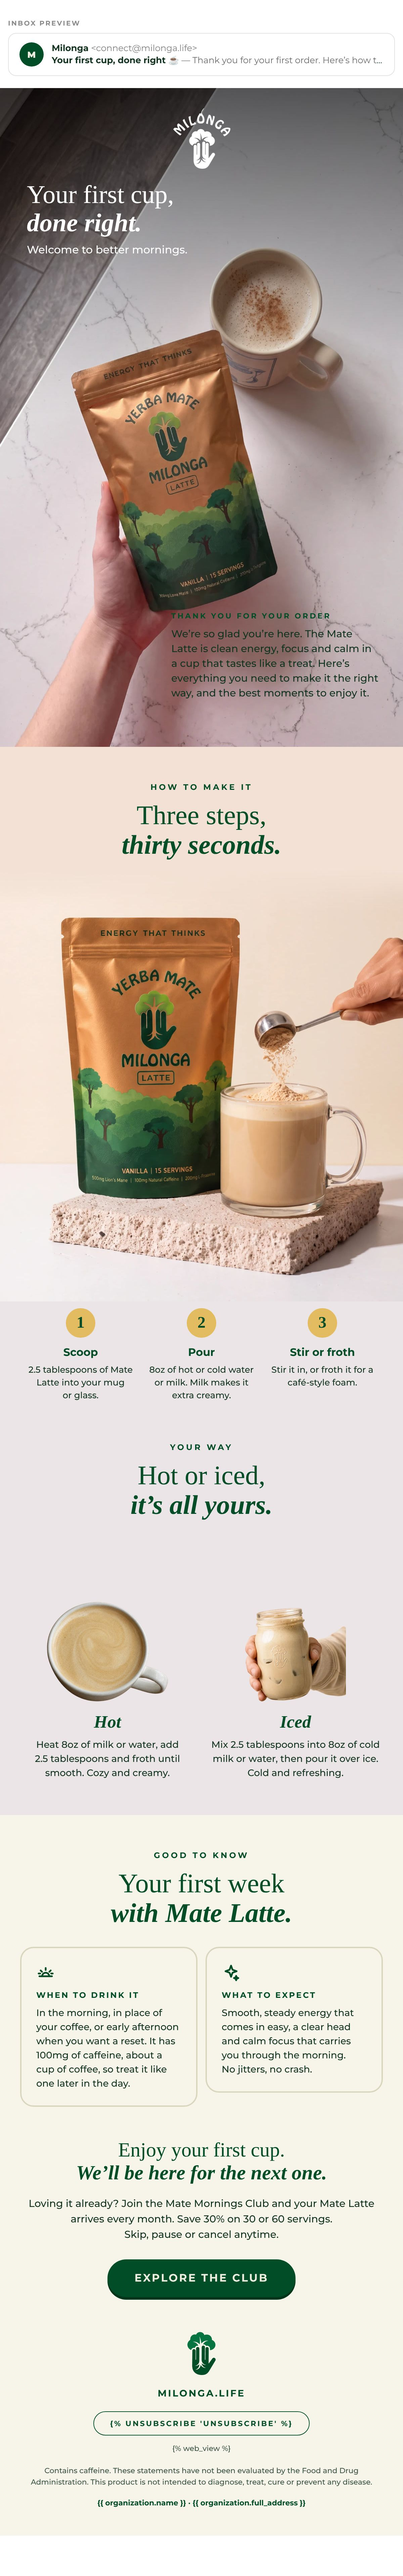
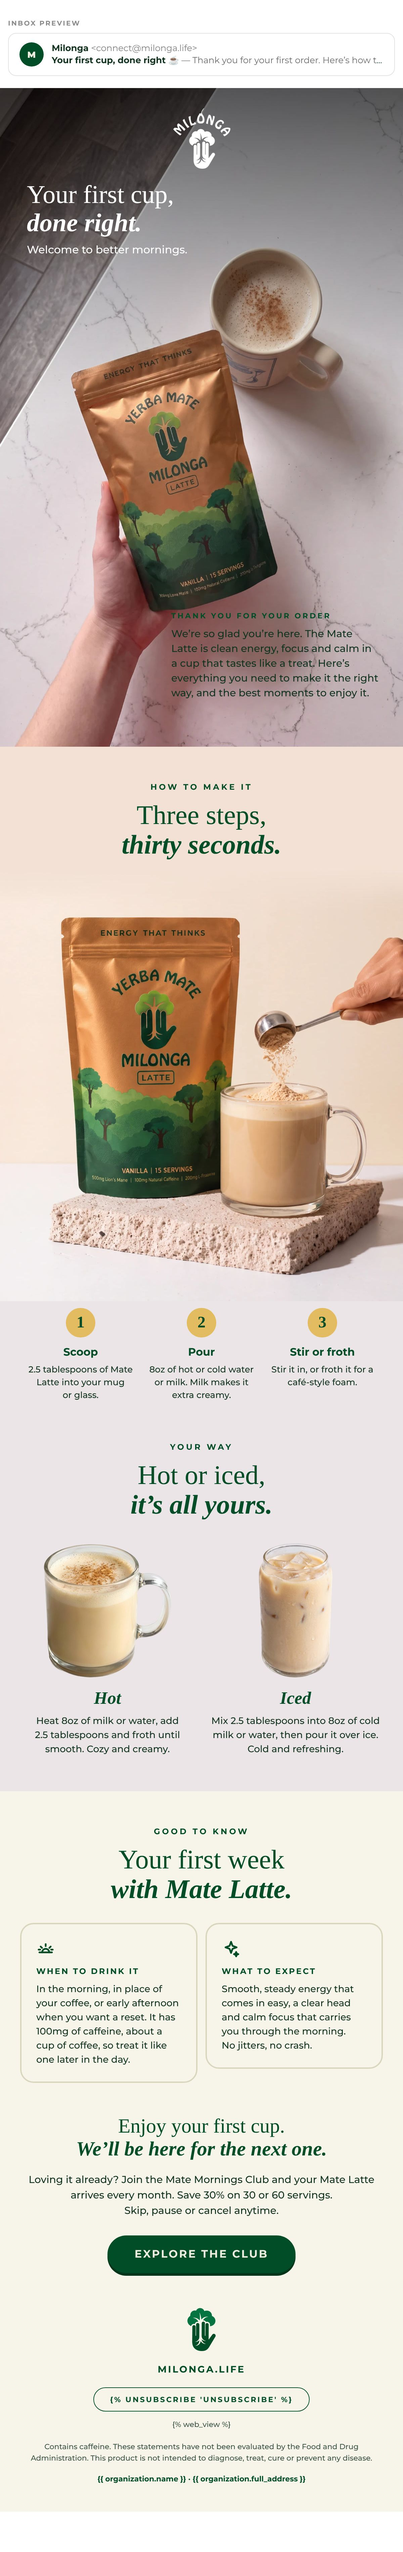
Post-purchase E1: hosted how-to background and drink cutouts; paste-ready HTML
Claude-Session: https://claude.ai/code/session_01NhEtXPnfeCJfN73SqBkUZ5

diff --git a/email-ds/exports/klaviyo/pp1-e1/pp1-e1.html b/email-ds/exports/klaviyo/pp1-e1/pp1-e1.html
@@ -27,23 +27,26 @@
     .hero-top { padding:18px 24px 0 !important; }
     .hero-logo { width:57px !important; height:60px !important; }
     .hero-title { font-size:28px !important; line-height:31px !important; }
-    .hero-gap { height:368px !important; line-height:368px !important; }
-    .hero-lead { width:160px !important; }
+    .hero-welcome { padding-top:4px !important; font-size:12px !important; line-height:16px !important; }
+    .hero-gap { height:330px !important; line-height:330px !important; }
+    .hero-lead { width:150px !important; }
     .hero-text { padding-right:16px !important; }
     .hero-eyebrow { font-size:9px !important; line-height:12px !important; letter-spacing:1.5px !important; }
-    .hero-intro { padding-top:4px !important; font-size:12px !important; line-height:16px !important; }
+    .hero-intro { padding-top:4px !important; font-size:11.5px !important; line-height:15px !important; }
     .h-sec { font-size:32px !important; line-height:36px !important; }
     .step { padding:0 4px !important; }
     .step-t { font-size:14px !important; }
     .step-d { font-size:12px !important; line-height:17px !important; }
-    .hi { display:block !important; width:100% !important; padding:0 0 12px 0 !important; }
+    .drink-img { width:150px !important; height:154px !important; }
+    .drink-text { font-size:12.5px !important; line-height:18px !important; }
     .know { display:block !important; width:100% !important; padding:0 0 12px 0 !important; }
     .btn { padding:18px 26px !important; font-size:15px !important; letter-spacing:1.2px !important; }
   }
   @media (prefers-color-scheme: dark) {
     .bg-white { background-color:#FFFFFF !important; }
     .bg-page { background-color:#F0EFDF !important; }
-    .bg-forest { background-color:#004D27 !important; }
+    .bg-table { background-color:#EBE5E7 !important; }
+    .bg-wall { background-color:#F2E1D4 !important; }
     .bg-cream { background-color:#F7F4EA !important; }
   }
 </style>
@@ -53,34 +56,36 @@
 <tr><td align="center">
 <table role="presentation" class="wrap" width="600" cellpadding="0" cellspacing="0" border="0" style="width:600px;max-width:600px;table-layout:fixed;">
 
-<!-- ── 1 · THANK YOU (Bernat's photo is the section's background: the white logo
-     centered at the top, the white title left-aligned on the darkened top, the
-     intro on the marble under the bag, right of the hand) ── -->
+<!-- ── 1 · YOUR FIRST CUP, DONE RIGHT (Bernat's photo is the section's background:
+     the white logo centered at the top, the white title left-aligned on the
+     darkened top, the thank-you and the brand promise on the marble under the bag) ── -->
 <tr><td class="hero" align="left" valign="top" height="980" background="https://cdn.klaviyomail.com/company/TwvSnK/images/33d7e05b-3c92-41b3-be44-9b438603229f.jpeg" bgcolor="#B8A6A6" style="height:980px;background-color:#B8A6A6;background-image:url('https://cdn.klaviyomail.com/company/TwvSnK/images/33d7e05b-3c92-41b3-be44-9b438603229f.jpeg');background-size:cover;background-position:center top;background-repeat:no-repeat;padding:0;">
 <!--[if gte mso 9]><v:rect xmlns:v="urn:schemas-microsoft-com:vml" fill="true" stroke="false" style="width:600px;height:980px;"><v:fill type="frame" src="https://cdn.klaviyomail.com/company/TwvSnK/images/33d7e05b-3c92-41b3-be44-9b438603229f.jpeg" color="#B8A6A6" /><v:textbox inset="0,0,0,0"><![endif]-->
 <div class="hero-top" style="padding:30px 40px 0;font-family:'Montserrat','Helvetica Neue',Helvetica,Arial,sans-serif;">
 <a href="https://milonga.life/?utm_source=klaviyo&amp;utm_medium=email&amp;utm_campaign=post_purchase_mate_latte&amp;utm_content=pp1_logo" target="_blank" style="display:block;text-align:center;"><img class="hero-logo" src="https://cdn.klaviyomail.com/company/TwvSnK/images/49619f06-6898-4fee-a4f2-8e0b6387ea5b.png" width="85" height="90" alt="Milonga" style="display:block;margin:0 auto;width:85px;height:90px;border:0;"></a>
-<div class="hero-title" style="padding-top:18px;font-family:'Times New Roman',Times,Georgia,serif;font-size:38px;line-height:42px;font-weight:400;color:#FFFFFF;">Thank you for</div>
-<div class="hero-title" style="font-family:'Times New Roman',Times,Georgia,serif;font-size:38px;line-height:42px;font-weight:700;font-style:italic;color:#FFFFFF;">your first order.</div>
+<div class="hero-title" style="padding-top:18px;font-family:'Times New Roman',Times,Georgia,serif;font-size:38px;line-height:42px;font-weight:400;color:#FFFFFF;">Your first cup,</div>
+<div class="hero-title" style="font-family:'Times New Roman',Times,Georgia,serif;font-size:38px;line-height:42px;font-weight:700;font-style:italic;color:#FFFFFF;">done right.</div>
+<div class="hero-welcome" style="padding-top:8px;font-size:16px;line-height:22px;font-weight:500;color:#FFFFFF;">Welcome to better mornings.</div>
 </div>
-<div class="hero-gap" style="height:576px;line-height:576px;font-size:0;">&nbsp;</div>
+<div class="hero-gap" style="height:526px;line-height:526px;font-size:0;">&nbsp;</div>
 <table role="presentation" width="100%" cellpadding="0" cellspacing="0" border="0" style="table-layout:fixed;"><tr>
 <td class="hero-lead" width="255" style="width:255px;font-size:0;line-height:0;">&nbsp;</td>
 <td class="hero-text" valign="top" style="padding:0 36px 0 0;font-family:'Montserrat','Helvetica Neue',Helvetica,Arial,sans-serif;text-align:left;">
-<div class="hero-eyebrow" style="font-size:11px;line-height:15px;font-weight:700;letter-spacing:2.5px;text-transform:uppercase;color:#004D27;">Your Mate Latte is on its way</div>
-<div class="hero-intro" style="padding-top:8px;font-size:15px;line-height:22px;font-weight:500;color:#12331F;">We&rsquo;re so glad you&rsquo;re here. While your first bag makes its way to you, here&rsquo;s how to make your first cup taste just right, <span style="white-space:nowrap;">hot or iced.</span></div>
+<div class="hero-eyebrow" style="font-size:11px;line-height:15px;font-weight:700;letter-spacing:2.5px;text-transform:uppercase;color:#004D27;">Thank you for your order</div>
+<div class="hero-intro" style="padding-top:8px;font-size:15px;line-height:22px;font-weight:500;color:#12331F;">We&rsquo;re so glad you&rsquo;re here. The Mate Latte is clean energy, focus and calm in a cup that tastes like a treat. Here&rsquo;s everything you need to make it the right way, and the best moments <span style="white-space:nowrap;">to enjoy it.</span></div>
 </td></tr></table>
 <!--[if gte mso 9]></v:textbox></v:rect><![endif]-->
 </td></tr>
 
-<!-- ── 2 · HOW TO MAKE IT: THREE STEPS ─────────────────────────────── -->
-<tr><td class="pad bg-page" align="center" bgcolor="#F0EFDF" style="background-color:#F0EFDF;padding:52px 40px 0;font-family:'Montserrat','Helvetica Neue',Helvetica,Arial,sans-serif;">
+<!-- ── 2 · HOW TO MAKE IT (Bernat's scoop photo is the whole section: the title
+     sits on its cream wall colour, the steps on its white table colour) ── -->
+<tr><td class="pad bg-wall" align="center" bgcolor="#F2E1D4" style="background-color:#F2E1D4;padding:52px 40px 6px;font-family:'Montserrat','Helvetica Neue',Helvetica,Arial,sans-serif;">
 <div style="font-size:12px;line-height:16px;font-weight:700;letter-spacing:3px;text-transform:uppercase;color:#004D27;">How to make it</div>
 <div class="h-sec" style="padding-top:12px;font-family:'Times New Roman',Times,Georgia,serif;font-size:40px;line-height:44px;font-weight:400;color:#004D27;">Three steps,</div>
 <div class="h-sec" style="font-family:'Times New Roman',Times,Georgia,serif;font-size:40px;line-height:44px;font-weight:700;font-style:italic;color:#004D27;">thirty seconds.</div>
 </td></tr>
-<tr><td class="pad-photo bg-page" align="center" bgcolor="#F0EFDF" style="background-color:#F0EFDF;padding:26px 40px 0;font-size:0;line-height:0;"><img class="full" src="https://cdn.klaviyomail.com/company/TwvSnK/images/768ff78d-b0bb-42c1-8a0f-b68ab1163c4d.jpeg" width="520" height="488" alt="A scoop of Mate Latte powder going into a glass mug beside the pouch" style="display:block;margin:0 auto;width:520px;height:488px;border:0;border-radius:22px;"></td></tr>
-<tr><td class="pad-photo bg-page" bgcolor="#F0EFDF" style="background-color:#F0EFDF;padding:26px 30px 52px;">
+<tr><td class="bg-wall" bgcolor="#F2E1D4" style="background-color:#F2E1D4;padding:0;font-size:0;line-height:0;"><img class="full" src="https://cdn.klaviyomail.com/company/TwvSnK/images/af3f6223-416f-4287-9846-efb8ba0a5c3b.jpeg" width="600" height="651" alt="A scoop of Mate Latte powder going into a glass mug beside the pouch" style="display:block;width:600px;height:651px;border:0;"></td></tr>
+<tr><td class="pad-photo bg-table" bgcolor="#EBE5E7" style="background-color:#EBE5E7;padding:10px 30px 20px;">
 <table role="presentation" width="100%" cellpadding="0" cellspacing="0" border="0" style="table-layout:fixed;"><tr>
 <td class="step" width="33%" align="center" valign="top" style="width:33%;padding:0 8px;font-family:'Montserrat','Helvetica Neue',Helvetica,Arial,sans-serif;">
 <table role="presentation" cellpadding="0" cellspacing="0" border="0" align="center" style="margin:0 auto;border-collapse:separate;"><tr><td align="center" valign="middle" width="44" height="44" bgcolor="#E3BC62" style="width:44px;height:44px;border-radius:22px;background-color:#E3BC62;font-family:'Times New Roman',Times,Georgia,serif;font-size:24px;line-height:44px;font-weight:700;color:#004D27;">1</td></tr></table>
@@ -100,27 +105,23 @@
 </tr></table>
 </td></tr>
 
-<!-- ── 3 · HOT OR ICED ─────────────────────────────────────────────── -->
-<tr><td class="pad bg-forest" align="center" bgcolor="#004D27" style="background-color:#004D27;padding:52px 40px 0;font-family:'Montserrat','Helvetica Neue',Helvetica,Arial,sans-serif;">
-<div style="font-size:12px;line-height:16px;font-weight:700;letter-spacing:3px;text-transform:uppercase;color:#E3BC62;">Your way</div>
-<div class="h-sec" style="padding-top:12px;font-family:'Times New Roman',Times,Georgia,serif;font-size:40px;line-height:44px;font-weight:400;color:#FFFFFF;">Hot or iced,</div>
-<div class="h-sec" style="font-family:'Times New Roman',Times,Georgia,serif;font-size:40px;line-height:44px;font-weight:700;font-style:italic;color:#FFFFFF;">it&rsquo;s all yours.</div>
+<!-- ── 3 · HOT OR ICED (on the light table colour of the scoop photo above) ── -->
+<tr><td class="pad bg-table" align="center" bgcolor="#EBE5E7" style="background-color:#EBE5E7;padding:40px 40px 0;font-family:'Montserrat','Helvetica Neue',Helvetica,Arial,sans-serif;">
+<div style="font-size:12px;line-height:16px;font-weight:700;letter-spacing:3px;text-transform:uppercase;color:#004D27;">Your way</div>
+<div class="h-sec" style="padding-top:12px;font-family:'Times New Roman',Times,Georgia,serif;font-size:40px;line-height:44px;font-weight:400;color:#004D27;">Hot or iced,</div>
+<div class="h-sec" style="font-family:'Times New Roman',Times,Georgia,serif;font-size:40px;line-height:44px;font-weight:700;font-style:italic;color:#004D27;">it&rsquo;s all yours.</div>
 </td></tr>
-<tr><td class="pad-photo bg-forest" bgcolor="#004D27" style="background-color:#004D27;padding:28px 30px 52px;">
-<table role="presentation" width="100%" cellpadding="0" cellspacing="0" border="0" style="border-collapse:separate;"><tr>
-<td class="hi" width="50%" valign="top" style="width:50%;padding:0 6px 0 0;">
-<table role="presentation" width="100%" cellpadding="0" cellspacing="0" border="0" bgcolor="#FFFFFF" style="border-collapse:separate;background-color:#FFFFFF;border-radius:20px;"><tr><td align="center" style="padding:20px 18px 22px;font-family:'Montserrat','Helvetica Neue',Helvetica,Arial,sans-serif;">
-<img src="https://cdn.klaviyomail.com/company/TwvSnK/images/3c959d21-9210-4492-a17f-f8cd43989ed3.png" width="150" height="150" alt="A hot Mate Latte from above" style="display:block;margin:0 auto;width:150px;height:150px;border:0;border-radius:0px;">
-<div style="padding-top:14px;font-family:'Times New Roman',Times,Georgia,serif;font-size:24px;line-height:28px;font-weight:700;font-style:italic;color:#004D27;">Hot</div>
-<div style="padding-top:8px;font-size:14px;line-height:21px;font-weight:500;color:#12331F;">Heat <span style="white-space:nowrap;">8oz of milk</span> or water, add <span style="white-space:nowrap;">2.5 tablespoons</span> and froth until smooth. Cozy and creamy.</div>
-</td></tr></table>
+<tr><td class="pad-photo bg-table" bgcolor="#EBE5E7" style="background-color:#EBE5E7;padding:30px 30px 52px;">
+<table role="presentation" width="100%" cellpadding="0" cellspacing="0" border="0" style="table-layout:fixed;"><tr>
+<td class="drink" width="50%" align="center" valign="top" style="width:50%;padding:0 10px 0 0;font-family:'Montserrat','Helvetica Neue',Helvetica,Arial,sans-serif;">
+<img class="drink-img" src="https://cdn.klaviyomail.com/company/TwvSnK/images/eb720e35-e441-496a-a96c-5f30dc637591.png" width="200" height="205" alt="A hot Mate Latte in a glass mug" style="display:block;margin:0 auto;width:200px;height:205px;border:0;">
+<div style="padding-top:16px;font-family:'Times New Roman',Times,Georgia,serif;font-size:26px;line-height:30px;font-weight:700;font-style:italic;color:#004D27;">Hot</div>
+<div class="drink-text" style="padding-top:8px;font-size:14px;line-height:21px;font-weight:500;color:#12331F;">Heat <span style="white-space:nowrap;">8oz of milk</span> or water, add <span style="white-space:nowrap;">2.5 tablespoons</span> and froth until smooth. Cozy and creamy.</div>
 </td>
-<td class="hi" width="50%" valign="top" style="width:50%;padding:0 0 0 6px;">
-<table role="presentation" width="100%" cellpadding="0" cellspacing="0" border="0" bgcolor="#FFFFFF" style="border-collapse:separate;background-color:#FFFFFF;border-radius:20px;"><tr><td align="center" style="padding:20px 18px 22px;font-family:'Montserrat','Helvetica Neue',Helvetica,Arial,sans-serif;">
-<img src="https://cdn.klaviyomail.com/company/TwvSnK/images/75b84579-778d-4da9-ae00-081ba3099c64.jpeg" width="150" height="150" alt="An iced Mate Latte in a glass jar" style="display:block;margin:0 auto;width:150px;height:150px;border:0;border-radius:14px;">
-<div style="padding-top:14px;font-family:'Times New Roman',Times,Georgia,serif;font-size:24px;line-height:28px;font-weight:700;font-style:italic;color:#004D27;">Iced</div>
-<div style="padding-top:8px;font-size:14px;line-height:21px;font-weight:500;color:#12331F;">Mix <span style="white-space:nowrap;">2.5 tablespoons</span> into <span style="white-space:nowrap;">8oz of cold</span> milk or water, then pour it over ice. Cold and refreshing.</div>
-</td></tr></table>
+<td class="drink" width="50%" align="center" valign="top" style="width:50%;padding:0 0 0 10px;font-family:'Montserrat','Helvetica Neue',Helvetica,Arial,sans-serif;">
+<img class="drink-img" src="https://cdn.klaviyomail.com/company/TwvSnK/images/93430b07-73ca-42d5-947b-2da6b2c4fdd7.png" width="200" height="205" alt="An iced Mate Latte in a tall glass" style="display:block;margin:0 auto;width:200px;height:205px;border:0;">
+<div style="padding-top:16px;font-family:'Times New Roman',Times,Georgia,serif;font-size:26px;line-height:30px;font-weight:700;font-style:italic;color:#004D27;">Iced</div>
+<div class="drink-text" style="padding-top:8px;font-size:14px;line-height:21px;font-weight:500;color:#12331F;">Mix <span style="white-space:nowrap;">2.5 tablespoons</span> into <span style="white-space:nowrap;">8oz of cold</span> milk or water, then pour it over ice. Cold and refreshing.</div>
 </td>
 </tr></table>
 </td></tr>
